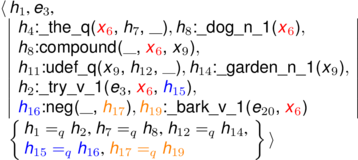
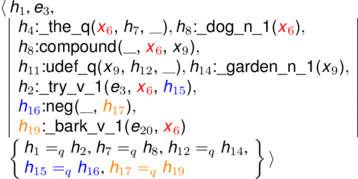
git-svn-id: http://svn.delph-in.net/erg/tags/1214@26024 3df82f5b-d43a-0410-af33-fce91db48ec5

Changed region(s): [[0.0, 0.0, 0.9832, 1.0], [0.7067, 0.75, 0.7374, 0.8125], [0.9832, 0.75, 1.0, 0.7812]]

diff --git a/www/esd/the-garden-dog-tried-not-to-bark.tex b/www/esd/the-garden-dog-tried-not-to-bark.tex
@@ -41,7 +41,7 @@
     \srole{ARG2}{\color{blue}\svar{h}{15}{}}},\\
   \sep{{\color{blue}\sh{16}}}{\spred{neg\slnkc{21}{24}}}{%
     \srole{ARG0}{},
-    \srole{ARG1}{\color{orange}\svar{h}{17}{}}}, %\\
+    \srole{ARG1}{\color{orange}\svar{h}{17}{}}},\\
   \sep{{\color{orange}\sh{19}}}{\spred{\_bark\_v\_1\slnkc{28}{33}}}{%
     \srole{ARG0}{\svar{e}{20}{\svp{SF}{prop}, \svp{TENSE}{untensed}, \svp{MOOD}{indicative}, \svp{PROG}{-}, \svp{PERF}{-}}},
     \srole{ARG1}{\color{red}\svar{x}{6}{}}}}
